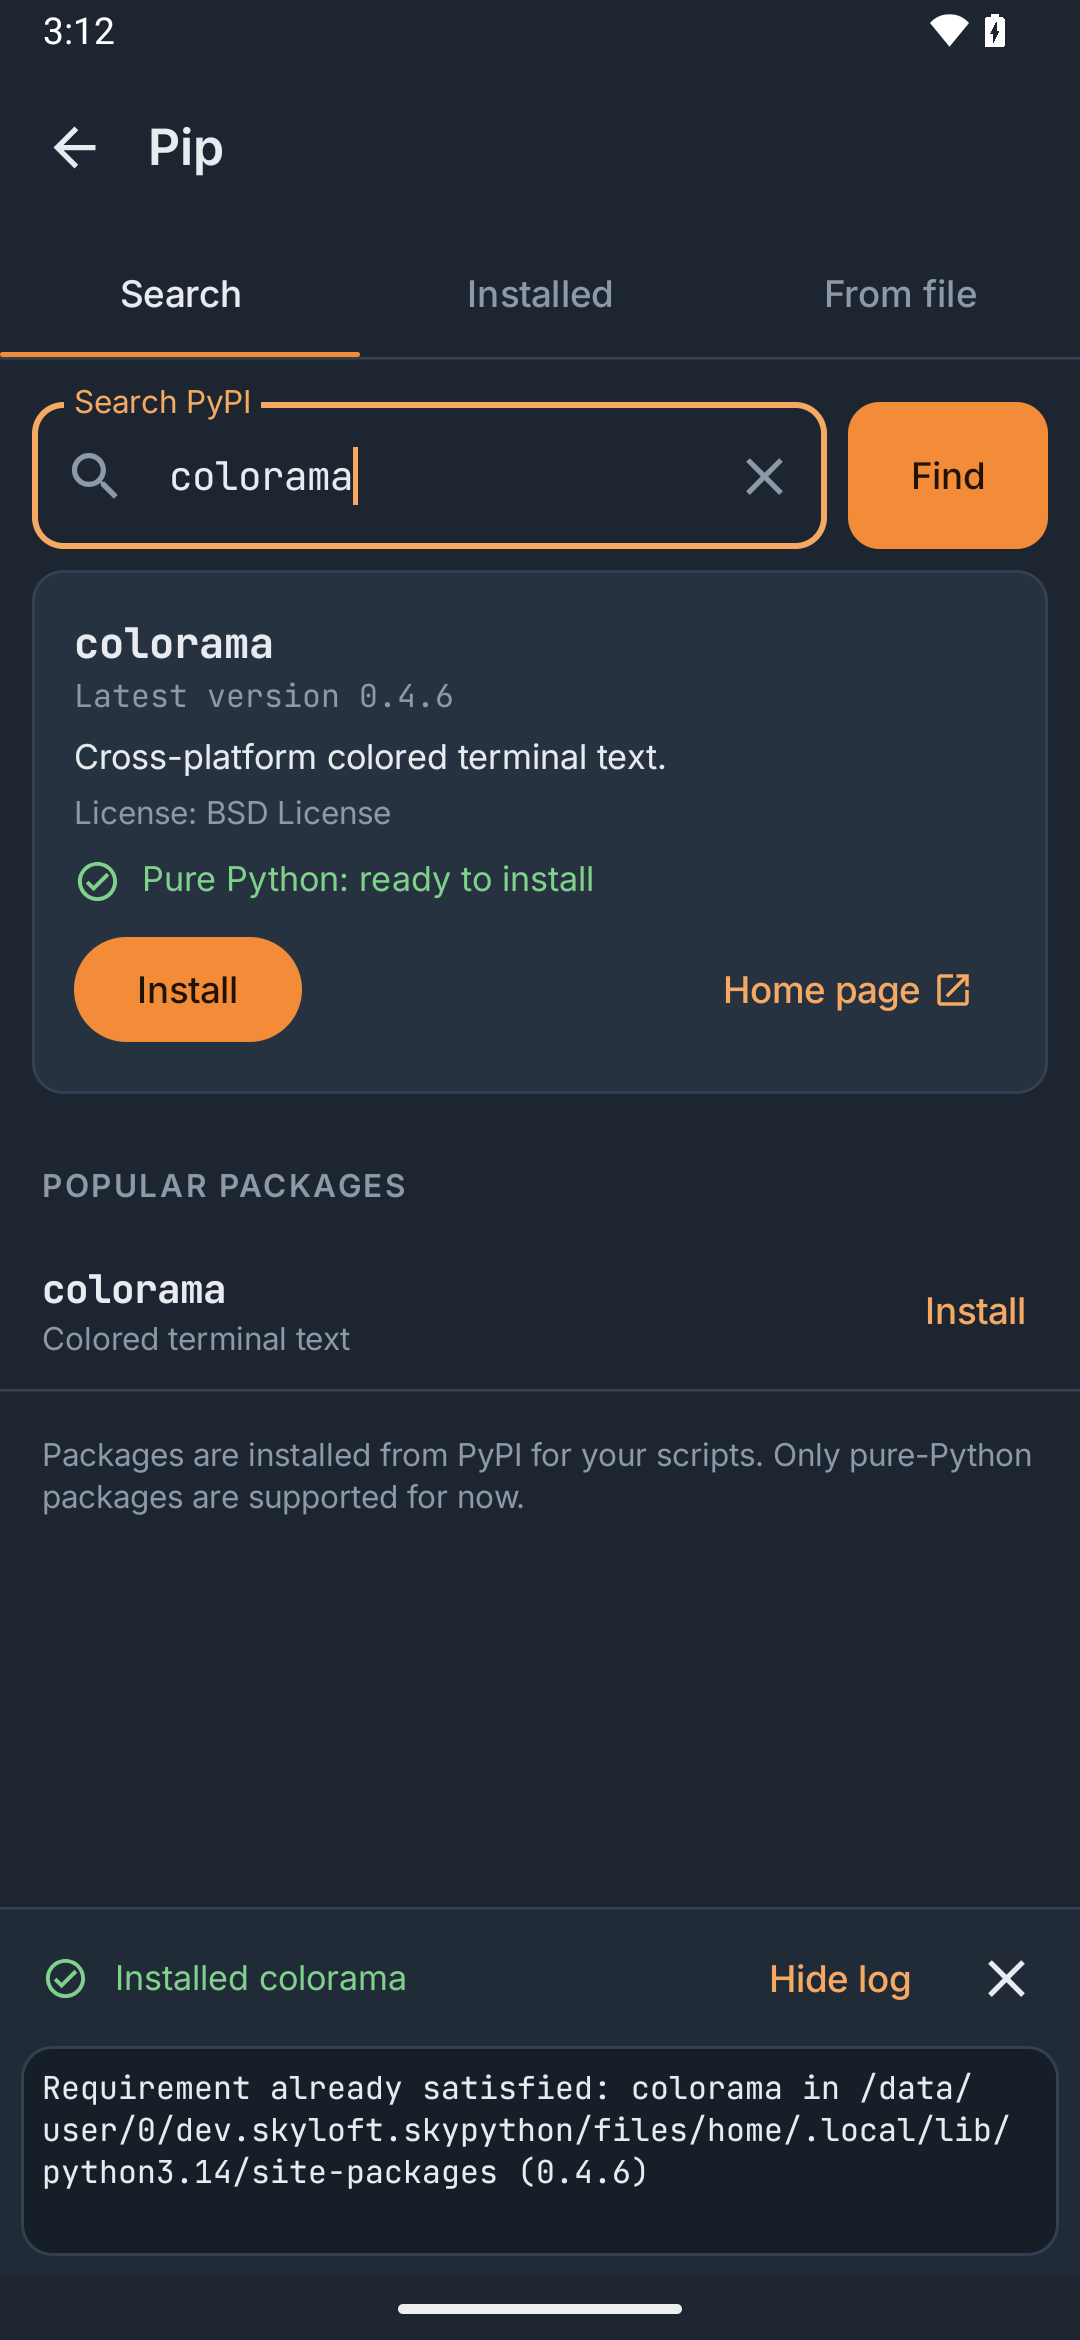
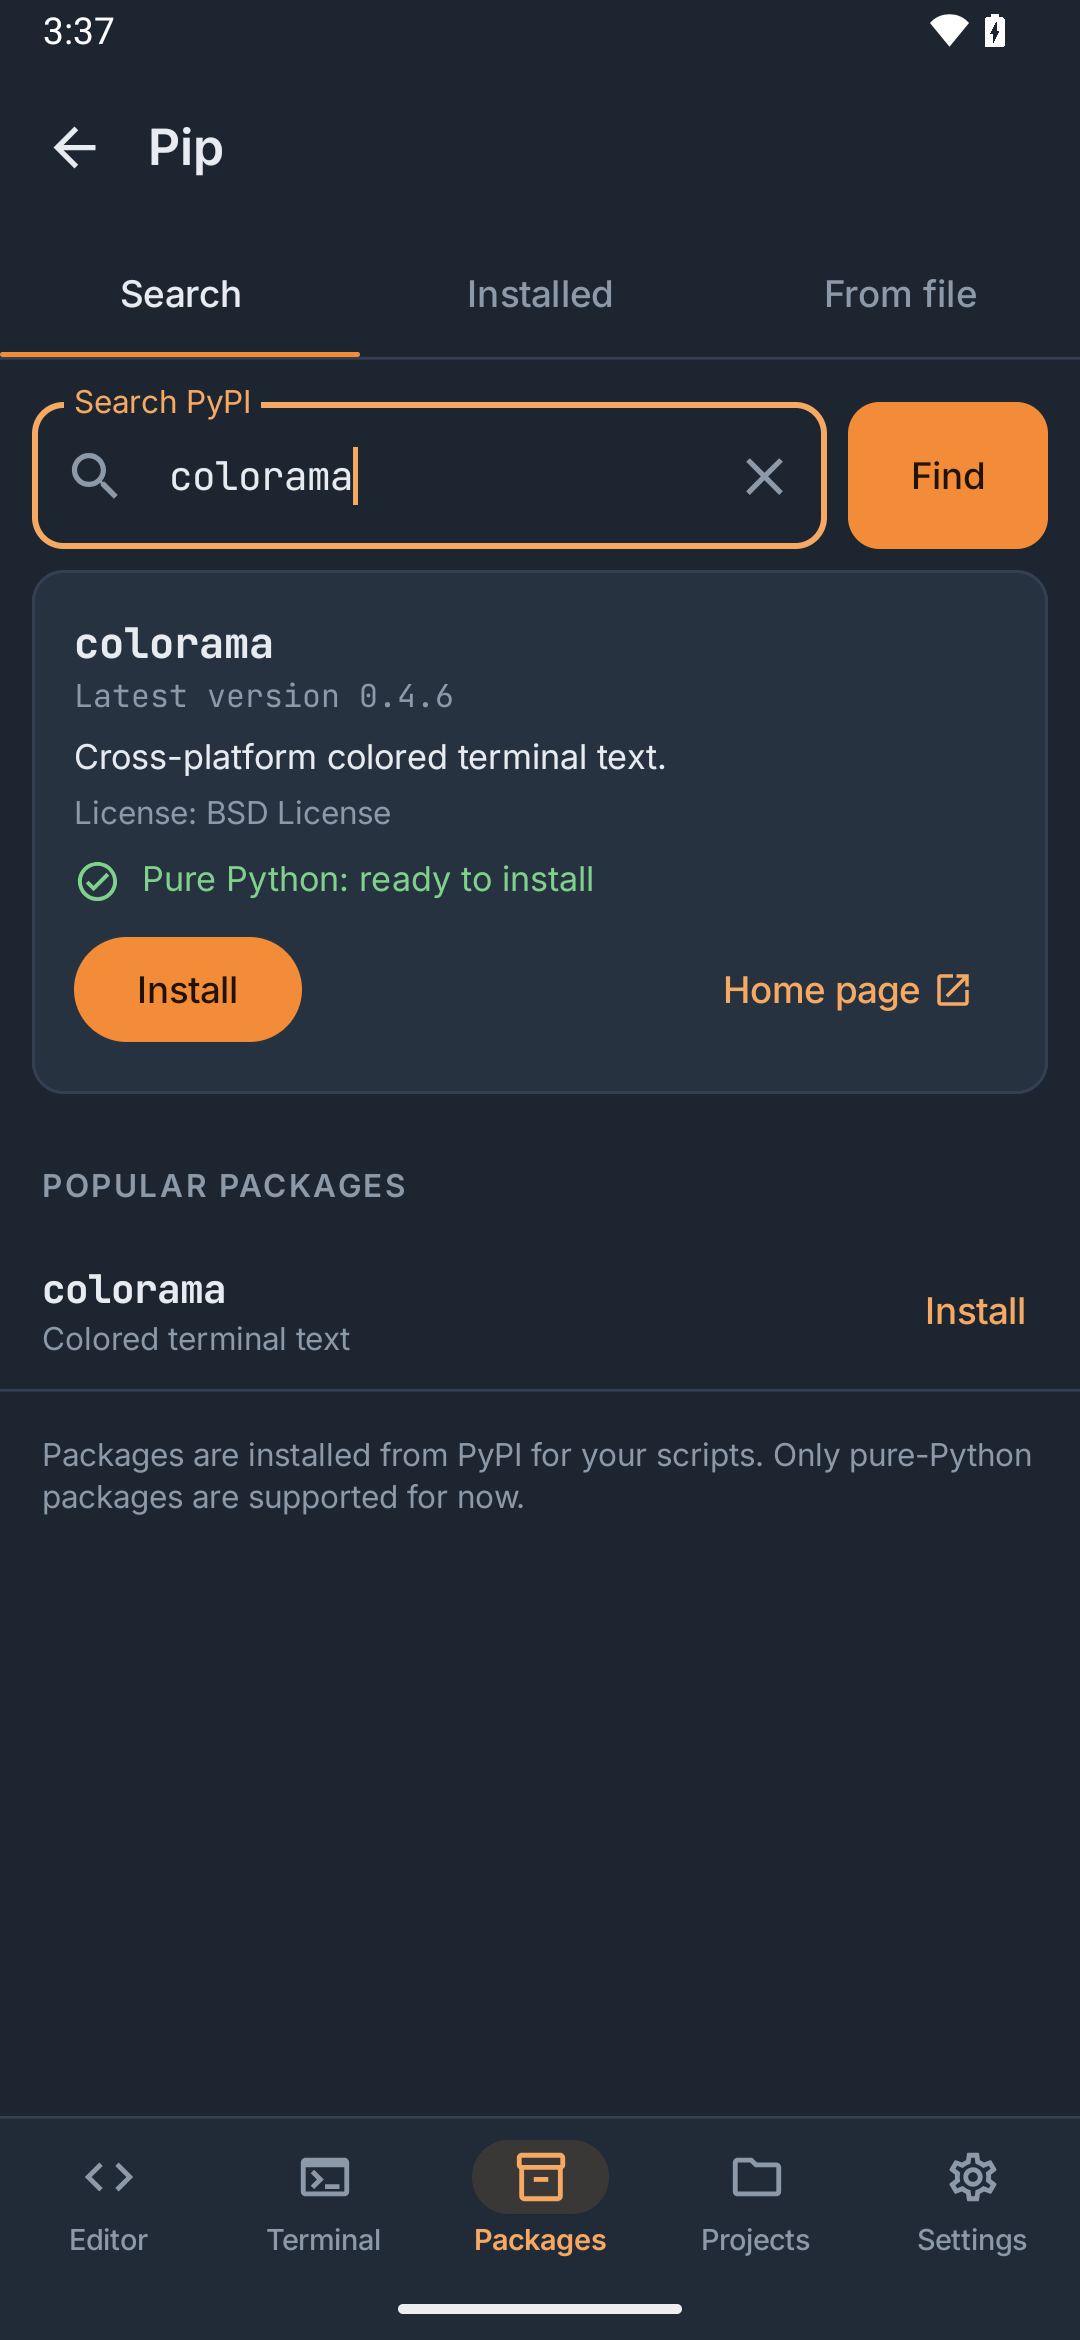
test(ui): bottom bar device test; docs: README screenshots with the bottom bar

diff --git a/app/src/androidTest/java/dev/skyloft/skypython/BottomNavDeviceTest.kt b/app/src/androidTest/java/dev/skyloft/skypython/BottomNavDeviceTest.kt
@@ -1,0 +1,120 @@
+package dev.skyloft.skypython
+
+import androidx.annotation.StringRes
+import androidx.compose.ui.test.ExperimentalTestApi
+import androidx.compose.ui.test.hasContentDescription
+import androidx.compose.ui.test.hasTestTag
+import androidx.compose.ui.test.hasText
+import androidx.compose.ui.test.junit4.createAndroidComposeRule
+import androidx.compose.ui.test.performClick
+import androidx.compose.ui.test.performScrollTo
+import androidx.lifecycle.ViewModelProvider
+import androidx.test.ext.junit.runners.AndroidJUnit4
+import dev.skyloft.skypython.editor.EditorViewModel
+import dev.skyloft.skypython.settings.SettingsStore
+import dev.skyloft.skypython.terminal.TERMINAL_TAG
+import dev.skyloft.skypython.ui.nav.BOTTOM_BAR_TAG
+import dev.skyloft.skypython.ui.nav.TopLevelDestination
+import kotlinx.coroutines.runBlocking
+import org.junit.After
+import org.junit.Assert.assertEquals
+import org.junit.Before
+import org.junit.Rule
+import org.junit.Test
+import org.junit.runner.RunWith
+
+/**
+ * The bottom bar: each item opens its screen, the editor keeps its open tabs across switches,
+ * and turning the bar off in Settings removes it (the ☰ drawer stays).
+ */
+@OptIn(ExperimentalTestApi::class)
+@RunWith(AndroidJUnit4::class)
+class BottomNavDeviceTest {
+
+    @get:Rule
+    val rule = createAndroidComposeRule<MainActivity>()
+
+    private fun str(@StringRes id: Int): String = rule.activity.getString(id)
+
+    private fun setBar(on: Boolean) = runBlocking {
+        SettingsStore(rule.activity).update { it.copy(bottomNavBar = on) }
+    }
+
+    @Before
+    fun barOn() = setBar(true)
+
+    @After
+    fun restoreDefault() = setBar(true)
+
+    private fun tap(destination: TopLevelDestination) {
+        rule.waitUntilAtLeastOneExists(hasTestTag(destination.tag), 10_000)
+        rule.onNode(hasTestTag(destination.tag)).performClick()
+        rule.waitForIdle()
+    }
+
+    private fun hideKeyboard() {
+        // The terminal focuses itself and opens the keyboard; the bar steps aside until it closes.
+        rule.runOnUiThread {
+            val view = rule.activity.window.decorView
+            androidx.core.view.WindowCompat.getInsetsController(rule.activity.window, view)
+                .hide(androidx.core.view.WindowInsetsCompat.Type.ime())
+        }
+    }
+
+    private fun openTabs(): Pair<List<String>, String?> {
+        val vm = ViewModelProvider(rule.activity)[EditorViewModel::class.java]
+        val s = vm.state.value
+        return s.docs.map { it.id } to s.currentId
+    }
+
+    @Test
+    fun eachItemOpensItsScreenAndTheEditorKeepsItsTabs() {
+        val menu = hasContentDescription(str(R.string.editor_menu))
+        rule.waitUntilAtLeastOneExists(menu, 20_000)
+        rule.waitUntilAtLeastOneExists(hasTestTag(BOTTOM_BAR_TAG), 10_000)
+        rule.waitUntil(20_000) { openTabs().first.isNotEmpty() }
+        val before = openTabs()
+
+        tap(TopLevelDestination.Terminal)
+        rule.waitUntilAtLeastOneExists(hasTestTag(TERMINAL_TAG), 20_000)
+        hideKeyboard()
+
+        tap(TopLevelDestination.Packages)
+        rule.waitUntilAtLeastOneExists(hasText(str(R.string.title_pip)), 10_000)
+
+        tap(TopLevelDestination.Projects)
+        rule.waitUntilAtLeastOneExists(hasText(str(R.string.title_files)), 10_000)
+
+        tap(TopLevelDestination.Settings)
+        rule.waitUntilAtLeastOneExists(hasText(str(R.string.settings_bottom_nav)), 10_000)
+
+        tap(TopLevelDestination.Editor)
+        rule.waitUntilAtLeastOneExists(menu, 10_000)
+        assertEquals("editor tabs survive switching", before, openTabs())
+
+        // Back from a tab returns to the editor.
+        tap(TopLevelDestination.Settings)
+        rule.waitUntilAtLeastOneExists(hasText(str(R.string.settings_bottom_nav)), 10_000)
+        rule.runOnUiThread { rule.activity.onBackPressedDispatcher.onBackPressed() }
+        rule.waitUntilAtLeastOneExists(menu, 10_000)
+        assertEquals(before, openTabs())
+    }
+
+    @Test
+    fun turningItOffInSettingsRemovesTheBar() {
+        rule.waitUntilAtLeastOneExists(hasTestTag(BOTTOM_BAR_TAG), 20_000)
+        tap(TopLevelDestination.Settings)
+        val switch = hasText(str(R.string.settings_bottom_nav))
+        rule.waitUntilAtLeastOneExists(switch, 10_000)
+        rule.onNode(switch).performScrollTo().performClick()
+        rule.waitUntilDoesNotExist(hasTestTag(BOTTOM_BAR_TAG), 10_000)
+
+        // Off: back to the editor, still no bar, and the ☰ drawer is there as before.
+        rule.runOnUiThread { rule.activity.onBackPressedDispatcher.onBackPressed() }
+        val menu = hasContentDescription(str(R.string.editor_menu))
+        rule.waitUntilAtLeastOneExists(menu, 10_000)
+        rule.onNode(menu).performClick()
+        rule.waitUntilAtLeastOneExists(hasText(str(R.string.title_settings)), 10_000)
+        assertEquals(0, rule.onAllNodes(hasTestTag(BOTTOM_BAR_TAG)).fetchSemanticsNodes().size)
+    }
+}
